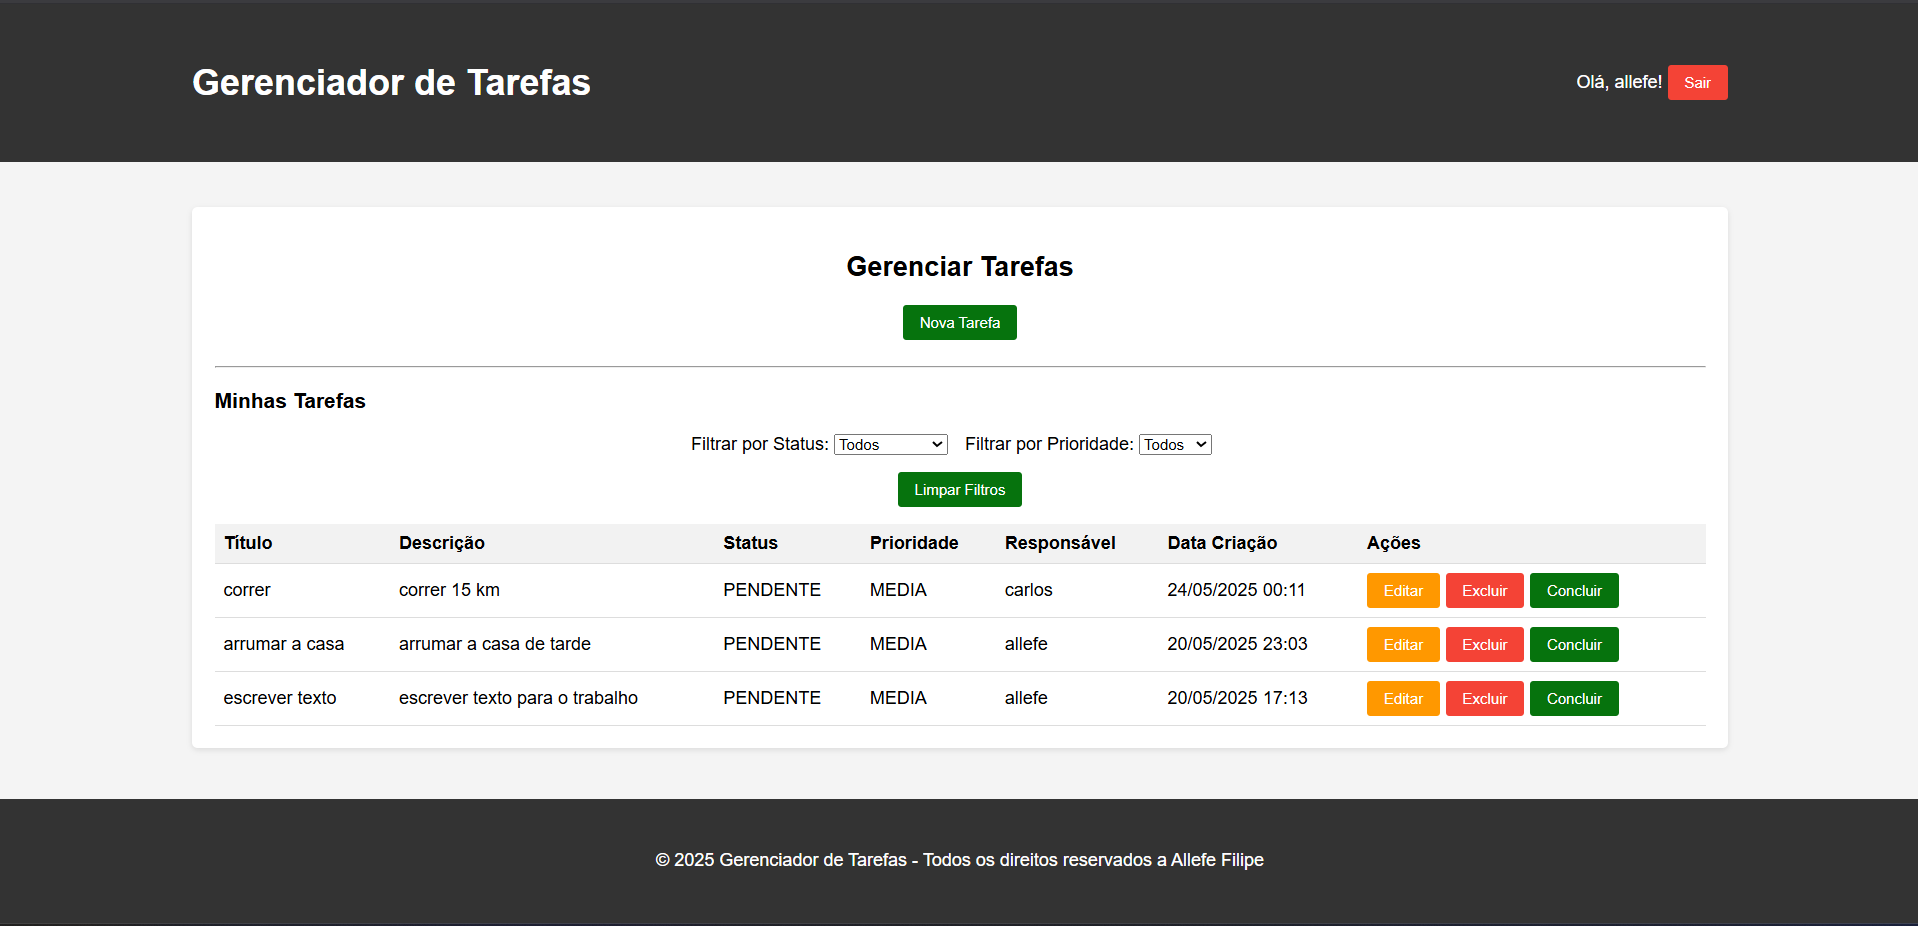
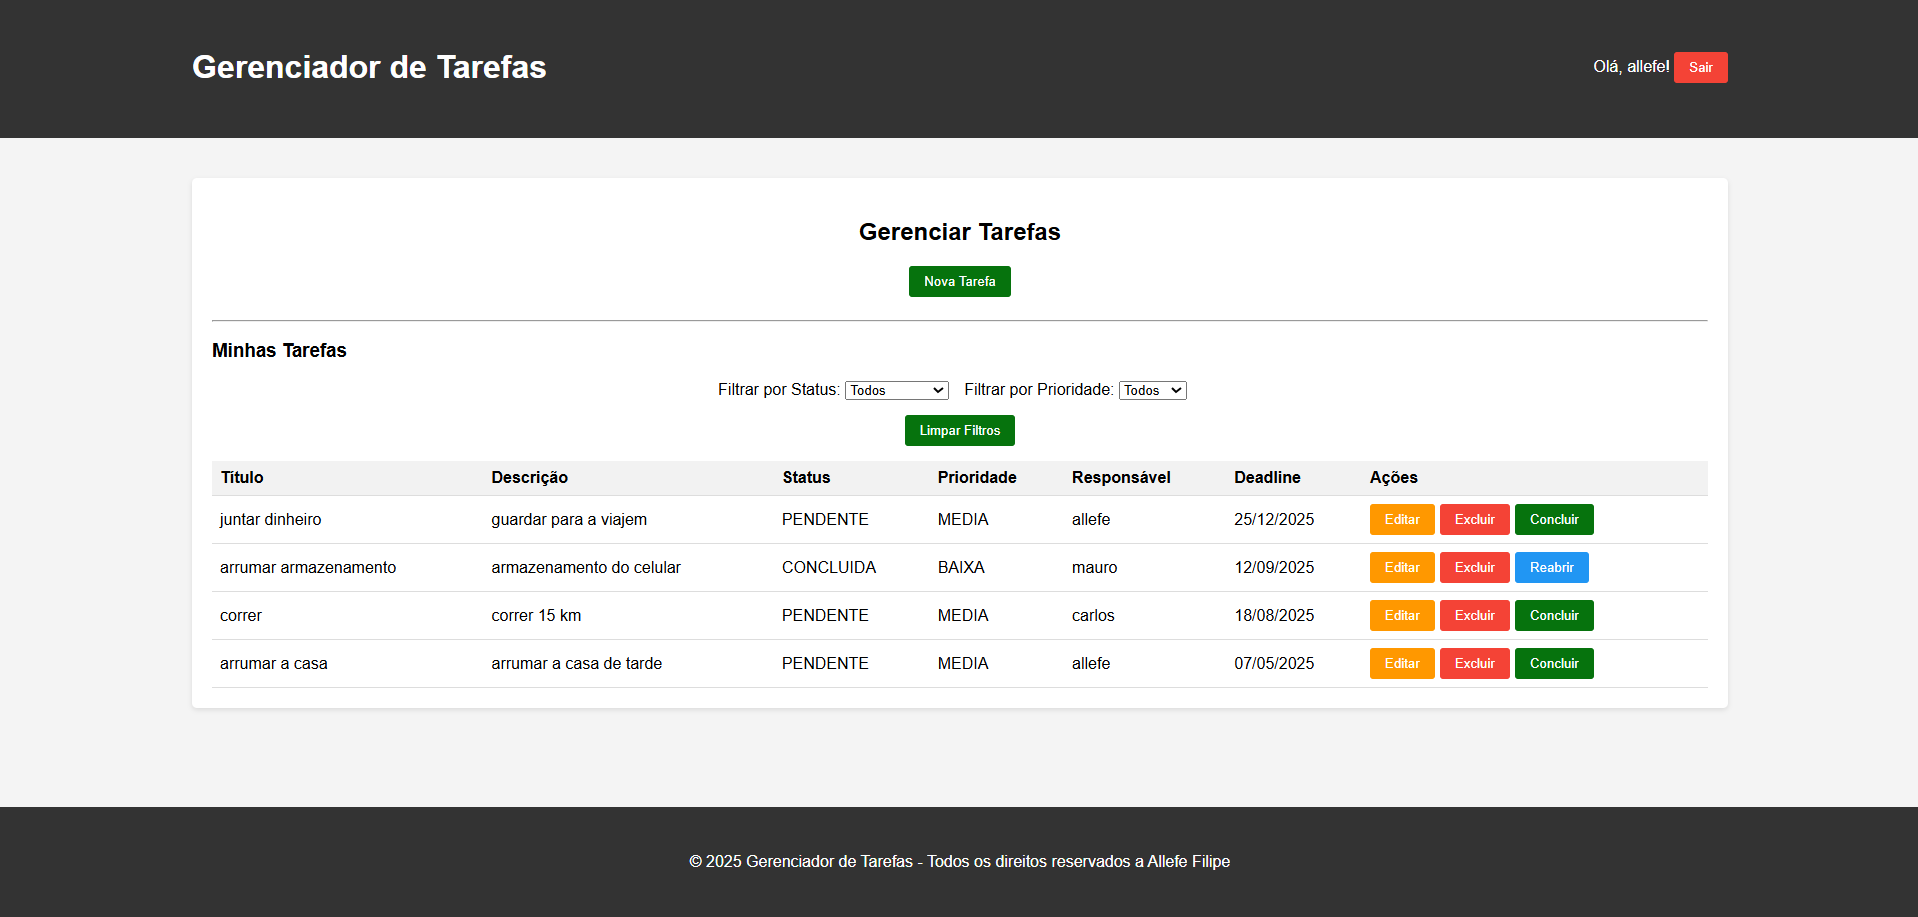
correção de bugs

diff --git a/src/main/java/com/gerenciadortarefas/model/Tarefa.java b/src/main/java/com/gerenciadortarefas/model/Tarefa.java
@@ -48,6 +48,10 @@ public class Tarefa implements Serializable {
     @Column(name = "data_conclusao")
     private Date dataConclusao;
     
+    @Temporal(TemporalType.DATE)
+    @Column(name = "data_deadline")
+    private Date dataDeadline;
+    
     @ManyToOne
     @JoinColumn(name = "responsavel_id")
     private Usuario responsavel;
@@ -126,6 +130,14 @@ public class Tarefa implements Serializable {
 
     public void setDataConclusao(Date dataConclusao) {
         this.dataConclusao = dataConclusao;
+    }
+    
+    public Date getDataDeadline() {
+        return dataDeadline;
+    }
+
+    public void setDataDeadline(Date dataDeadline) {
+        this.dataDeadline = dataDeadline;
     }
 
     public Usuario getUsuario() {
